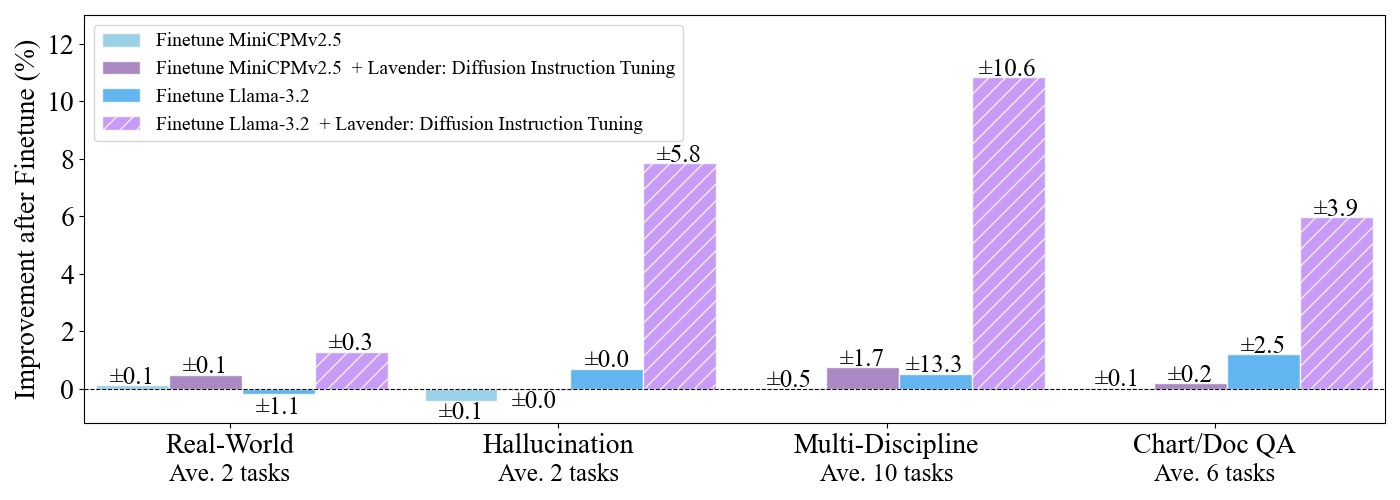
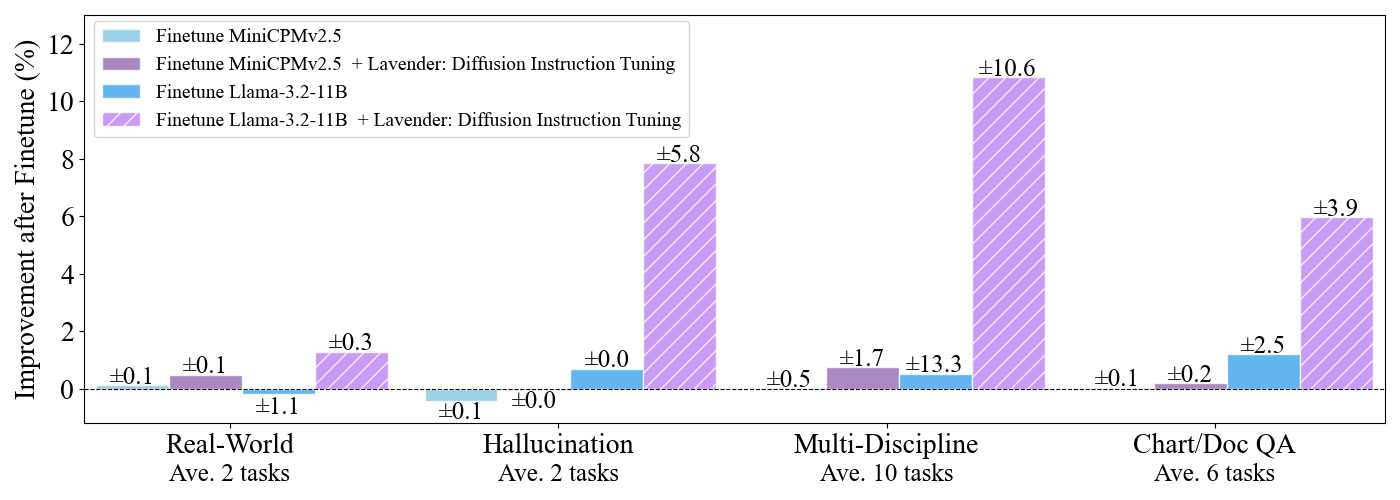
update

Changed region(s): [[0.0614, 0.03, 0.4914, 0.3]]

diff --git a/index.html b/index.html
@@ -23,6 +23,10 @@
   <!-- jQuery, FontAwesome JS, etc. -->
   <script src="https://ajax.googleapis.com/ajax/libs/jquery/3.5.1/jquery.min.js"></script>
   <script defer src="https://cdnjs.cloudflare.com/ajax/libs/font-awesome/5.15.1/js/all.min.js"></script>
+  <script type="text/javascript" async
+    src="https://polyfill.io/v3/polyfill.min.js?features=es6"></script>
+  <script type="text/javascript" async
+    src="https://cdn.jsdelivr.net/npm/mathjax@3/es5/tex-mml-chtml.js"></script>
 </head>
 
 <body>
@@ -36,7 +40,7 @@
                 Lavender: Diffusion Instruction Tuning
             </h1>              
             <h3 class="subtitle is-4 publication-title" style="margin-bottom: 1rem;">
-              <em>Bridging Text-to-Image (T2I) and Image-to-Text (I2T) Models</em>
+              <em>Boosting SoTA vision-language model with Stable Diffusion</em>
             </h3>
             <h5 class="subtitle is-5 publication-awards">
               <strong>Preprint available on arXiv</strong>
@@ -106,10 +110,7 @@
             <!-- Potential short teaser/highlight -->
             <div class="content" style="max-width: 950px; margin: 0 auto;">
               <p>
-                <strong>Lavender</strong> (<strong>L</strong>anguage-<strong>a</strong>nd-<strong>V</strong>ision fin<strong>e</strong>-tu<strong>n</strong>ing with <strong>D</strong>iffusion Align<strong>er</strong>) is a framework for improving vision-language models (VLMs) by aligning them
-                with Stable Diffusion’s cross-attention. Our results show better text-region alignment, enhanced
-                zero-shot capabilities, and improved out-of-distribution performance—all using far fewer data
-                and compute than typical large-scale VLM training.
+                <strong>Lavender</strong> (<strong>L</strong>anguage-<strong>a</strong>nd-<strong>V</strong>ision fin<strong>e</strong>-tu<strong>n</strong>ing with <strong>D</strong>iffusion Align<strong>er</strong>) is a simple supervised fine-tuning (SFT) method that boosts the performance of advanced vision-language models (VLMs) by leveraging state-of-the-art image generation models such as Stable Diffusion. 
               </p>
             </div>
 
@@ -126,14 +127,13 @@
         <!-- Title and tagline, remains centered -->
         <h4 class="subtitle has-text-centered" style="font-size:1.1rem;">
           <strong>Diffusion Instruction Tuning</strong> <br />
-          <em>“SoTA T2I attention in Stable Diffusion can be transferred to enhance I2T generation in SoTA VLMs.”</em>
-          <br><br>
+          <em>“The visual expertise of image generators in Stable Diffusion can be transferred to enhance text generation in SoTA VLMs.”</em>
         </h4>
         <!-- Centered Abstract Container with fixed max width -->
         <div class="abstract-summary" style="max-width: 1920px; margin: 0 auto; text-align: center;">
           <!-- <h2>Abstract</h2> -->
           <p>
-            Lavender is an extension of visual instruction tuning that aligns cross-attention in Stable Diffusion with per-token attention in VLMs, using a regularisation loss (specifically, mean squared error or MSE). 
+            Lavender aligns the text-vision attention in the VLM transformer with the equivalent used by Stable Diffusion during SFT, instead of adapting separate encoders. This alignment enriches the model’s visual understanding and significantly boosts performance across in- and out-of-distribution tasks.
           </p>
           <p>
             <strong>Key highlights:</strong>
@@ -141,40 +141,27 @@
   
           <!-- Bullet points also centered -->
           <ul style="list-style-position: inside;">
-            <li><strong>Precise Attention:</strong> Leverage T2I’s fine-grained word-to-region mapping.</li>
-            <li><strong>Robust Gains:</strong> Up to 30% improvement with Llama-3.2 across 20 tasks; +68% on OOD tasks.</li>
-            <li><strong>Model-Agnostic:</strong> Works with SoTA VLMs (Llama-3.2, MiniCPMv2.5, OpenFlamingo, etc.)</li>
-            <li><strong>Data-Efficient:</strong> Only ~0.13M samples needed (2.5% of large VLM finetuning data).</li>
+            <li><strong>Significant Gains:</strong> +30% on 20 tasks, +68% on OOD WorldMedQA.</li>
+            <li><strong>Data-Efficient:</strong> Needs only 0.13M samples (~2.5% of typical VLM datasets).</li>
+            <li><strong>Low Compute:</strong> Finetunes in ~1 day on 8 NVIDIA A10G GPUs.</li>
+            <li><strong>Model-Agnostic:</strong> Works with Llama-3.2-11B, MiniCPM-Llama3-v2.5 & more.</li>
+            <li><strong>Precise Alignment:</strong> Transfers strong text-vision alignment from Stable Diffusion.</li>
+            <li><strong>Open-Source:</strong> Code, data & finetuned models will be available.</li>
           </ul>
   
           <!-- Expand/Collapse Toggle Button -->
           <button onclick="toggleAbstract()" style="margin-top:10px;">
-            Read Full Abstract
+            Read Introduction
           </button>
   
           <!-- Hidden Full Abstract -->
           <div id="full-abstract" style="display: none; margin-top:10px;">
             <p>
-              We introduce Lavender, an extension of visual instruction tuning that leverages high-quality cross-attention
-              learned by text-to-image (T2I) diffusion models to improve image-to-text (I2T) generation.
-              We find that T2I models, which reconstruct images at the pixel level, learn more precise attention maps that
-              capture fine-granularity spatial saliency than I2T models optimized solely for text tokens.
+              Training frontier foundation models from scratch costs millions of dollars at minimum, requiring hundreds of GPUs and millions to billions of data. This challenge is even more pronounced in multimodal settings: vision-language models (VLMs) often face data scarcity because collecting paired image-text datasets is expensive. A common workaround is to apply supervised fine-tuning (SFT) on a pretrained large language model (LLM), leveraging its abundant text-only pretraining and adjusting bridging layers or additional encoders with limited image-text pairs. However, these methods typically overlook the importance of transformer-level attention alignment within the LLM core---a key component for effectively expanding text-based models into the visual domain.
               <br><br>
-              Lavender bridges this overlooked gap by directly aligning the per-word attention in I2T transformers with T2I’s
-              clear word-to-region saliency via a mean squared error loss. This alignment is added on top of the standard 
-              next-token prediction loss and implemented as a model-agnostic module using Stable Diffusion. While prior work 
-              aligns I2T models at the image encoder or adaptor layers, <em>Lavender is the first to directly align per-word 
-              attention within the LLM transformer</em>.
+              Precise visual-text alignment is crucial for advanced multimodal reasoning. While both VLMs and diffusion models (DMs) process text and images, they diverge in their generation objectives. We observe that DMs, such as Stable Diffusion, which reconstructs images at the pixel level, appear to learn more precise text-vision attention maps than VLMs that are optimised solely for text token generation (Figure 2).
               <br><br>
-              Experiments on multiple pretrained vision-language models (VLMs)—including Llama-3.2-11B, MiniCPM-Llama3-v2.5-8B, 
-              and OpenFlamingo-3B—show that Lavender generalizes well across in- and out-of-distribution (OOD) data, reducing 
-              OOD performance degradation and achieving up to 30% gains across 20 benchmarks, including question answering 
-              and captioning. Lavender also improves performance by 68% on the severely OOD WorldMedQA benchmark, highlighting 
-              its robustness to domain gaps in multilingual medical questions.
-              <br><br>
-              Notably, it requires as few as 0.13M training samples (about 2.5% of typical large VLM datasets). By transferring 
-              “visual expertise” from T2I to I2T without requiring additional annotations, Lavender tackles data scarcity and 
-              paves the way for more unified vision-language systems across diverse applications.
+              In this work, we demonstrate that the high-quality cross-attention maps from these DMs indeed offer a useful target for guiding the text-vision attention in VLMs during SFT, thus improving word-to-region alignment and the overall performance. We introduce <strong>Lavender</strong> (<strong>L</strong>anguage-<strong>a</strong>nd-<strong>V</strong>ision fin<strong>e</strong>-tu<strong>n</strong>ing with <strong>D</strong>iffusion Align<strong>er</strong>), the first framework to directly align VLM transformer attention layers with those of Stable Diffusion (Figure 3). Specifically, during SFT, Lavender transfers diffusion-based attention distributions to VLMs, enhancing core visual-textual interactions. To mitigate catastrophic forgetting, we additionally propose several attention aggregation methods and training strategies that preserve existing VLM competencies.
             </p>
             <a href="https://arxiv.org/abs/XXXX.XXXXX" target="_blank">See Full Paper on ArXiv</a>
           </div>
@@ -244,7 +231,7 @@
                      style="width: 100%; vertical-align: middle;">
                 <figcaption>
                   <small>
-                    <em>Average Performance on 20 Benchmarks (Grouped into 4 Categories).</em>
+                    <em>Figure 1. Average Performance on 20 Vision-Language Reasoning Benchmarks (Grouped into 4 Categories).</em>
                   </small>
                 </figcaption>
               </figure>
@@ -272,7 +259,7 @@
                      style="width: 100%; vertical-align: middle;">
                 <figcaption>
                   <small>
-                    <em>Empirical results show that diffusion models exhibit stronger word-to-region alignment than VLMs.</em>
+                    <em>Figure 2. Image generation models (Stable Diffusion on the left) exhibit stronger word-to-region attention alignment than VLMs (Open-Flamingo on the right). Per-word average attention maps suggest that diffusion models may be closer to an ideal distribution correlating image regions with textual tokens.</em>
                   </small>
                 </figcaption>
               </figure>
@@ -284,12 +271,13 @@
                 min-width: 250px; 
                 margin: 0; 
                 text-align: center;">
-                <img src="static/images/method_highlight_v22_bw.jpg" 
+                <img src="static/images/method_highlight_v33.jpg" 
                      alt="Lavender Gains" 
                      style="width: 100%; vertical-align: middle;">
                 <figcaption>
                   <small>
-                    <em>High-level method: We add an alignment loss to ensure VLM attention matches stable diffusion cross-attention, bridging T2I and I2T alignment.</em>
+                    <em><strong>Lavender: Diffusion Instruction Tuning.</strong>
+                      Lavender uses the text-vision attention maps of a Stable Diffusion Model, \(Attention_{SDM}\), as a guiding objective for the attention of the target vision-language model (VLM), \(Attention_{VLM}\). The \textit{Attention Alignment} module employs a 3-Layer ConvNet to transform \(Attention_{VLM}\) to match \(Attention_{SDM}\) via an MSE loss, acting as a regularisation term during supervised fine-tuning.</em>
                   </small>
                 </figcaption>
               </figure>
@@ -323,14 +311,14 @@
       <div class="card mb-3">
         <div class="card-body" style="display:flex; flex-wrap:wrap; align-items:center; justify-content:space-between;">
           <div style="flex:1; min-width:300px; margin-right:1rem;">
-            <img src="static/images/lavender_fig_3.jpg" alt="fig 3" style="max-width:100%;">
+            <img src="static/images/lavender_fig_4.jpg" alt="fig 3" style="max-width:100%;">
           </div>
         </div>
       </div>
 
       <p>
         We propose an <strong>Aligner Network</strong> (a few light convolution layers) to transform 
-        the raw VLM attention into a distribution that can be directly matched to the stable diffusion 
+        the raw VLM attention into a distribution that can be directly matched to the Stable Diffusion 
         attention. When used with parameter-efficient finetuning (LoRA), we see strong results 
         without destabilizing the original VLM’s capabilities.
       </p>
@@ -363,12 +351,12 @@
           min-width: 250px; 
           margin: 0; 
           text-align: center;">
-          <img src="static/images/lm32_relative_improvement_with_offsets_20_benchmarks_op.png" 
+          <img src="static/images/lm32_relative_improvement_with_offsets_20_benchmarks_v3_lora.png" 
               alt="Lavender Gains" 
               style="width: 100%; vertical-align: middle;">
           <figcaption>
             <small>
-              <em>Lavender boosts the cross-attention-equipped Llama-3.2-11B by up to 30% on 19/20 benchmarks.</em>
+              <em>Lavender boosts the cross-attention-equipped Llama-3.2-11B by up to 30% on 19/20 benchmarks, while mitigating catastrophic forgetting.</em>
             </small>
           </figcaption>
         </figure>
@@ -380,12 +368,12 @@
           min-width: 250px; 
           margin: 0; 
           text-align: center;">
-          <img src="static/images/minicpm_relative_improvement_side_by_side_op.png" 
+          <img src="static/images/minicpm_relative_improvement_side_by_side_v3.png" 
               alt="Lavender Gains" 
               style="width: 100%; vertical-align: middle;">
           <figcaption>
             <small>
-              <em>Lavender enhances the self-attention-only MiniCPM-Llama3-V-2.5 by up to 4% on 16/20 benchmarks.</em>
+              <em>Lavender enhances the self-attention-only MiniCPM-Llama3-V-2.5 by up to 4% on 16/20 benchmarks despite further fine-tuning on its pre-trained dataset..</em>
             </small>
           </figcaption>
         </figure>
@@ -399,19 +387,11 @@
             </figcaption>
             </figure>
 
-      <div class="content has-text-justified">
-        <p>
-          Among <em>Large SOTA Models</em>, Lavender demonstrates comparable performance to 
-          certain closed-source models at least an order of magnitude larger 
-          (e.g., <em>Claude-3.5 Sonnet, GPT-4o, and Gemini 1.5 Pro</em>) on certain tasks.
-        </p>
-      </div>
-
         <figure style="text-align: center;">
             <img src="static/images/bar_highlight.png" alt="Lavender Gains" style="max-width: 100%;">
             <figcaption>
                 <small>
-                <em>Lavender-Llama-3.2-11B demonstrates comparable performance to certain High-Resource State-of-the-Art Models.</em>
+                <em>Among Large SOTA Models, Lavender-Llama-3.2-11B demonstrates comparable performance to certain High-Resource State-of-the-Art Models at least an order of magnitude larger.</em>
                 </small>
             </figcaption>
             </figure>
@@ -420,9 +400,6 @@
         <p>
           We observe that aligning attention with diffusion models also helps reduce visual
           hallucinations, especially on tasks that require domain-specific knowledge. 
-          With minimal data (<strong>0.13M</strong> samples),
-          we boost performance significantly on out-of-distribution tasks like 
-          <em>WorldMedQA</em>, improving by <strong>68%</strong> relative to standard fine-tuning.
         </p>
       </div>
 
@@ -485,9 +462,11 @@
     <div class="container is-max-desktop content">
       <h2 class="title is-3">Acknowledgements</h2>
       <p>
-        We thank the creators of <a href="https://github.com/CompVis/stable-diffusion" target="_blank">Stable Diffusion</a> and 
-        related open-source diffusion projects for providing the foundation of cross-attention alignment used in Lavender.
-        We also appreciate the open-source community around <em>LLMs</em>, <em>VLMs</em>, and <em>PEFT</em> frameworks which 
+        We thank the creators of <a href="https://github.com/CompVis/stable-diffusion" target="_blank">Stable Diffusion</a>, 
+        <a href="https://github.com/meta-llama/llama-cookbook" target="_blank">Llama</a>, 
+        <a href="https://github.com/OpenBMB/MiniCPM-o" target="_blank">MiniCPM</a> and 
+        <a href="https://github.com/mlfoundations/open_flamingo" target="_blank">Open-Flamingo</a> for providing the foundation codes used in Lavender.
+        We also appreciate the open-source community around <em>PEFT</em> frameworks which 
         made this project feasible under constrained data and compute resources.
       </p>
       <p>
